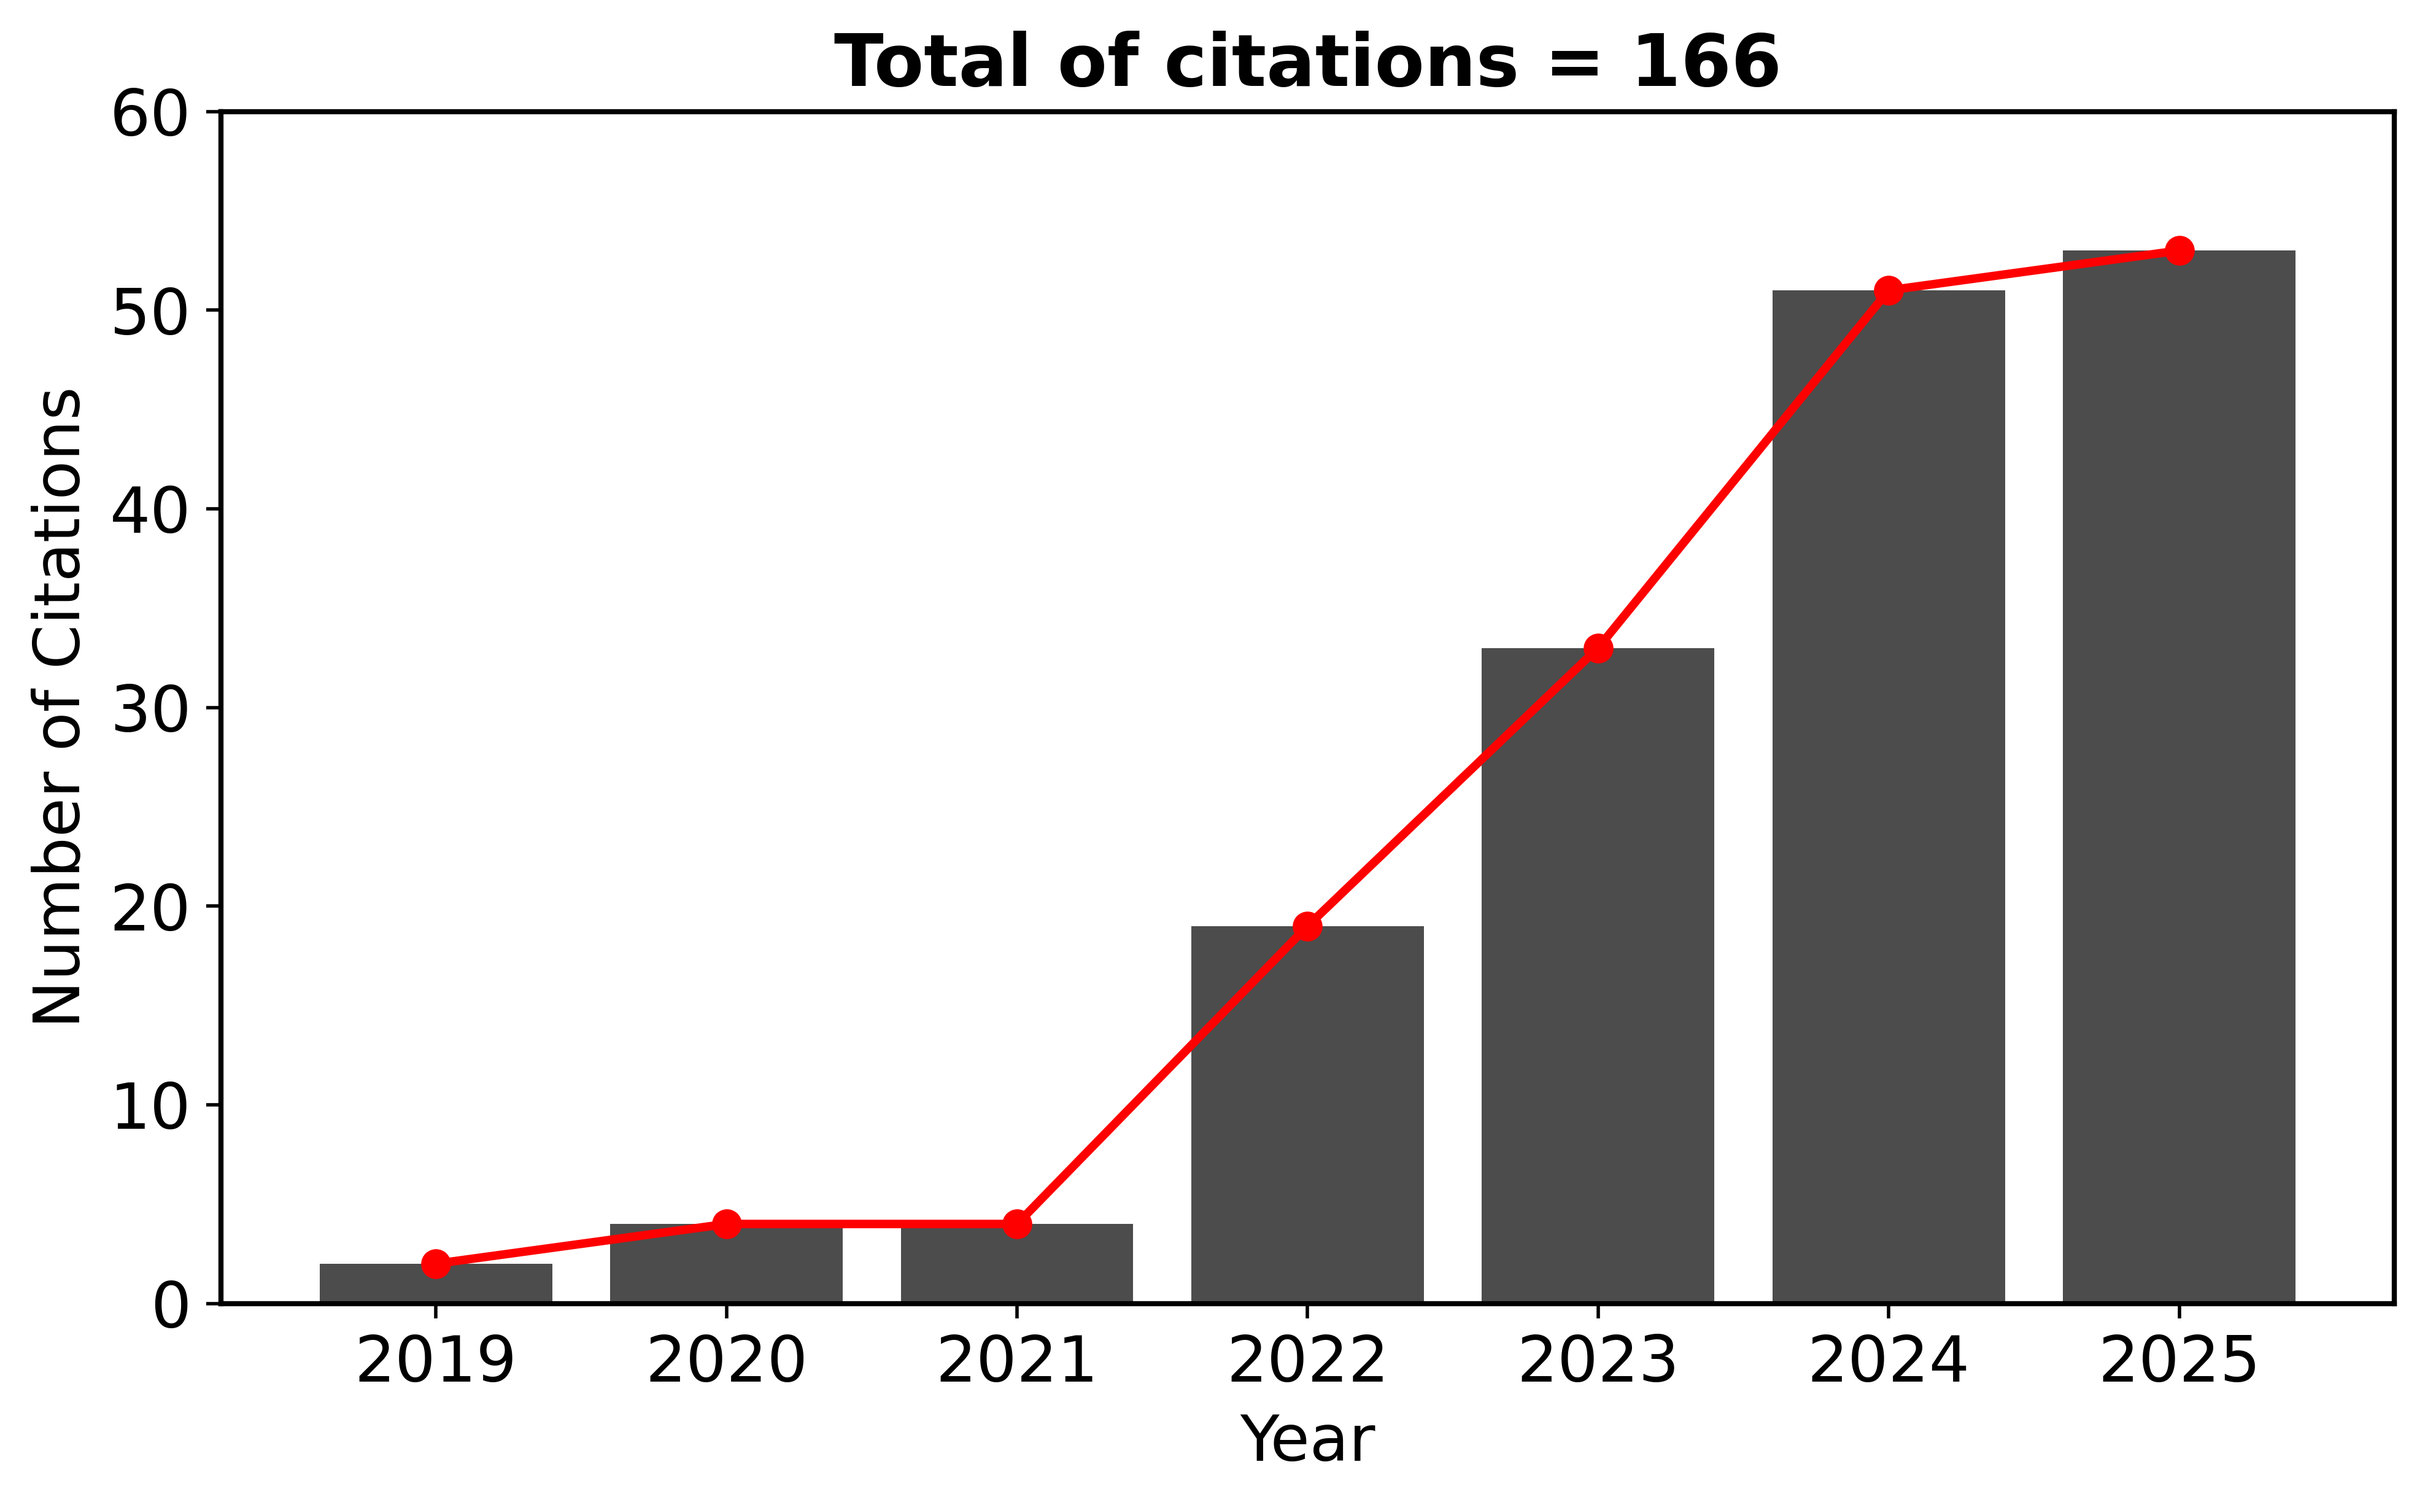
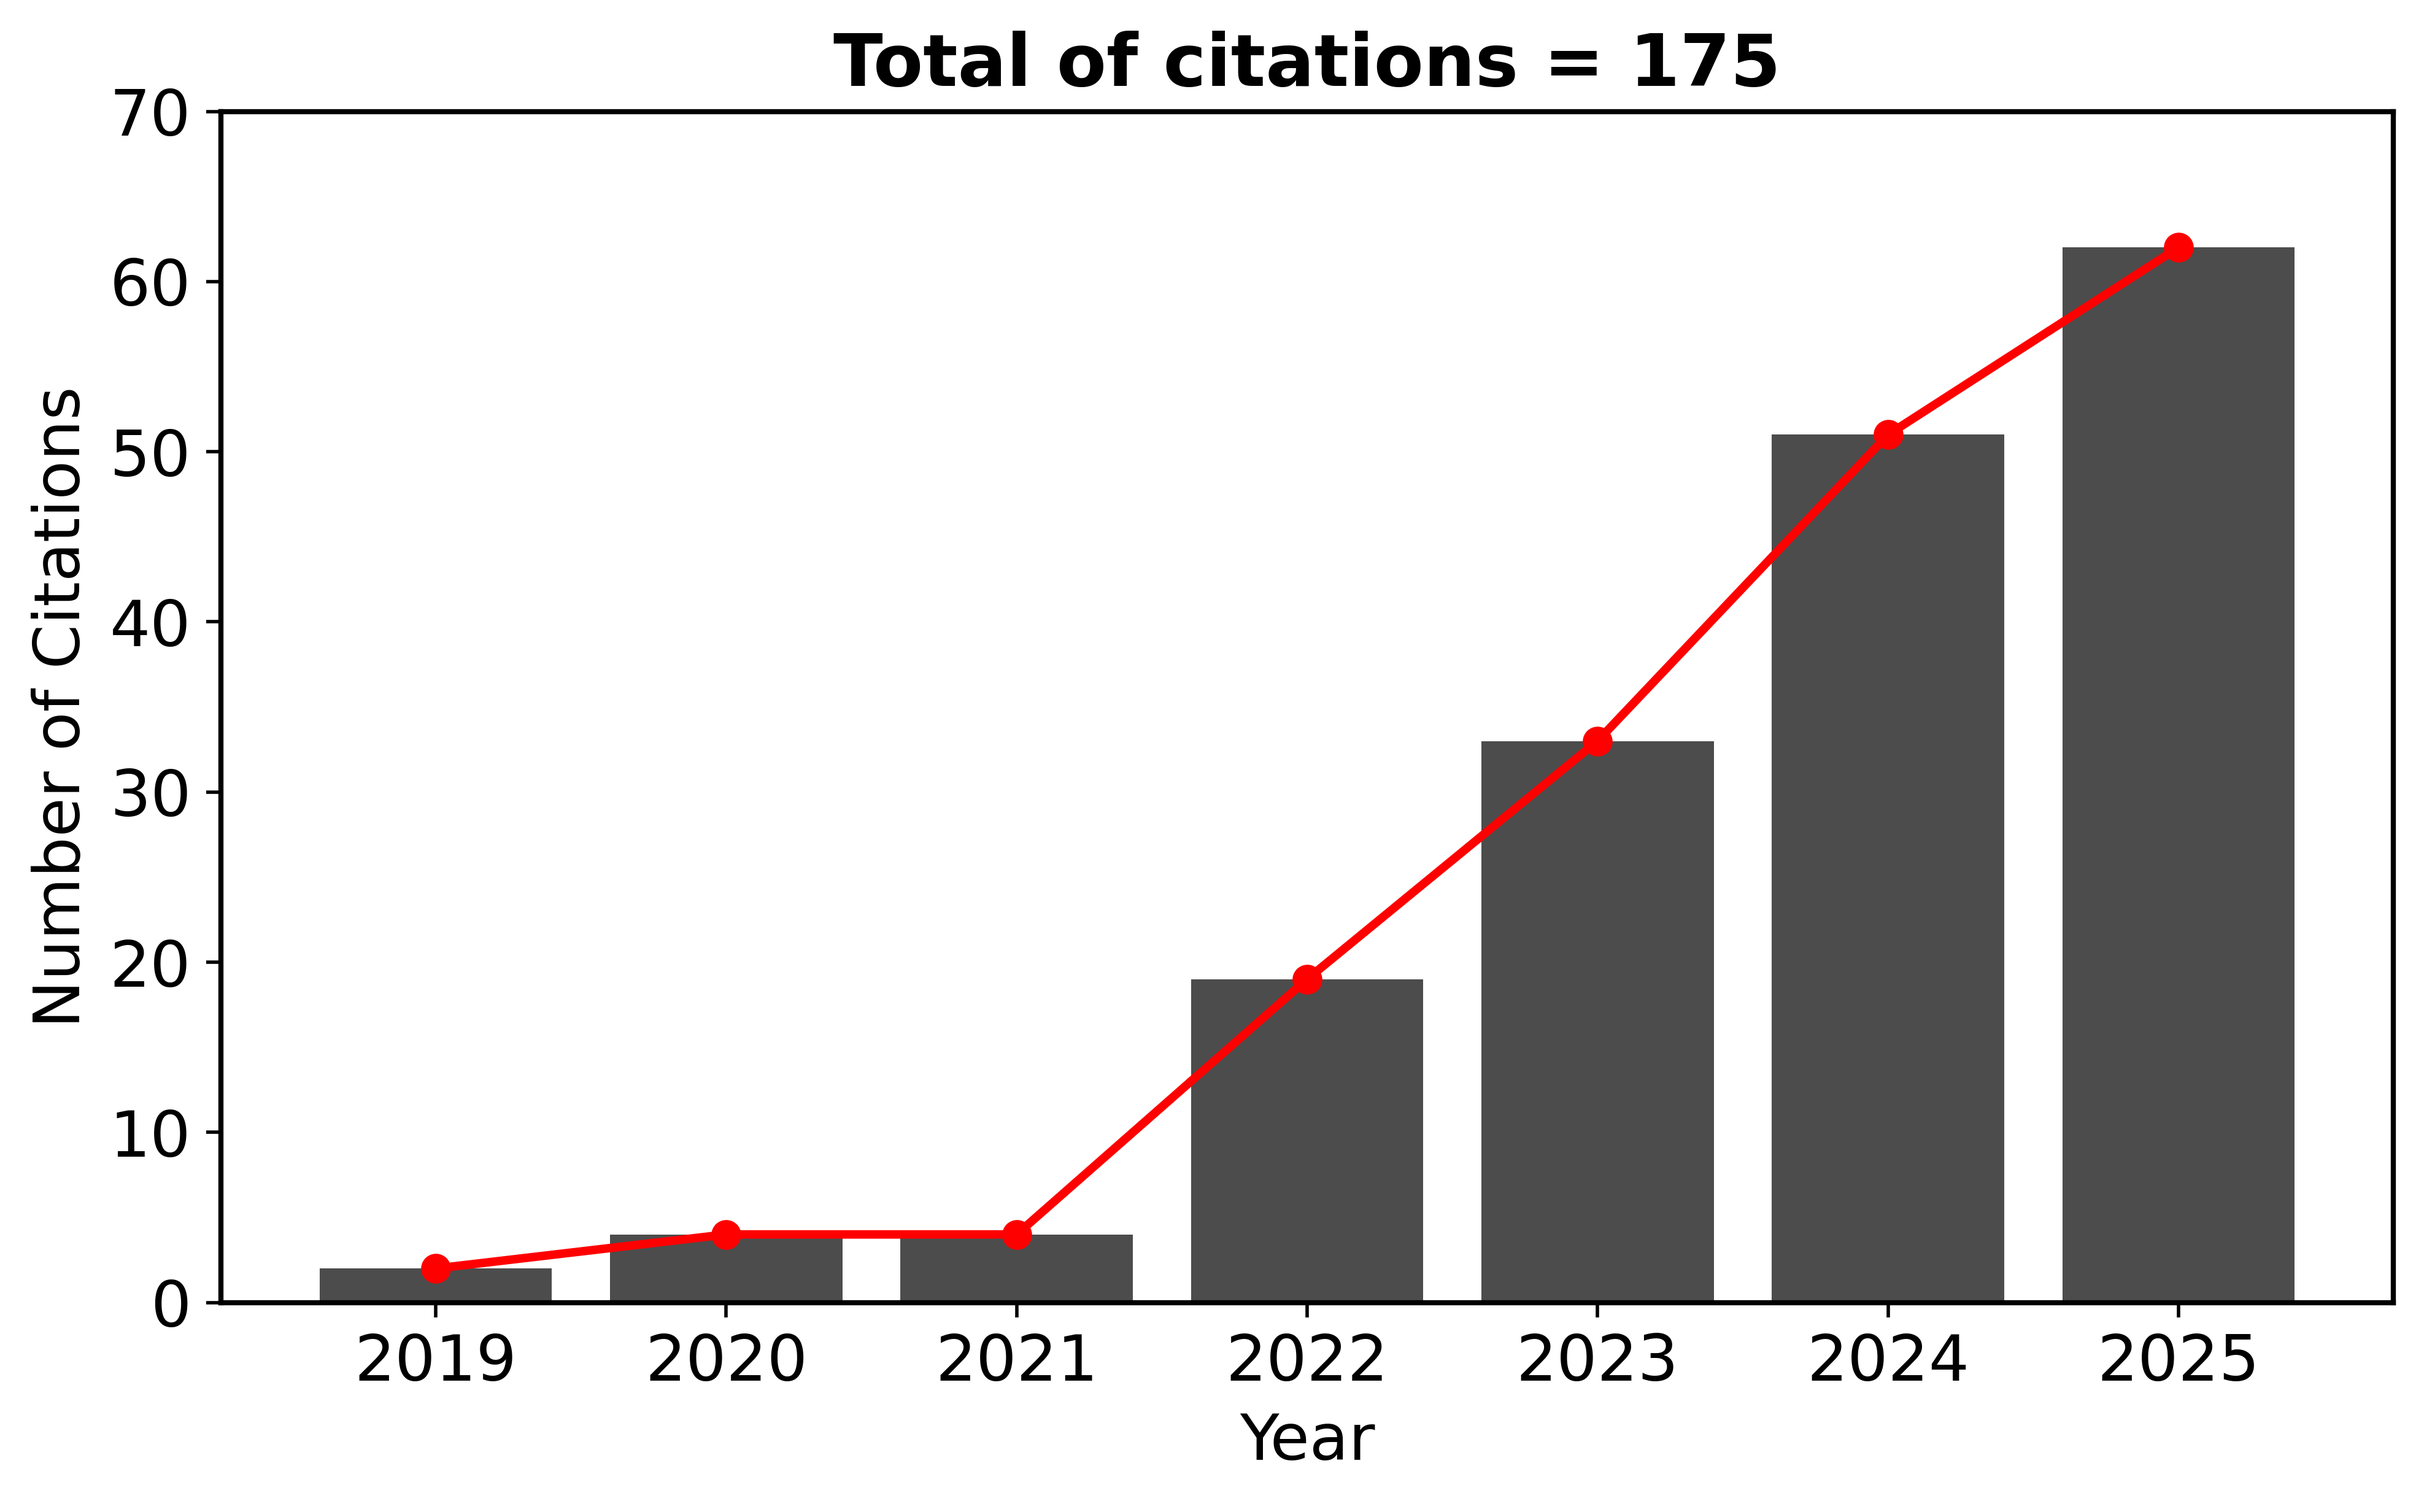
new publication

diff --git a/publications.html b/publications.html
@@ -48,20 +48,21 @@
         <h1>Bibliometric data</h1>
 
         <div class="custom-container">
-            <div class="custom-title">H=8, 19 articles in international peer reviewed journals, 11 articles as first author</div><br>
+            <div class="custom-title">H=8, 20 articles in international peer reviewed journals, 12 articles as first author</div><br>
     <div style="text-align: center;">
       <img src="research/output.png" alt="citation"
            style="width: 45%; height: auto; border-radius: 10px; box-shadow: 0px 4px 8px rgba(0, 0, 0, 0.1);">
     </div>
             <div class="custom-text">
                 Source: 
-                <a href="https://scholar.google.com/citations?user=ZF1mcjoAAAAJ&hl=en&oi=ao" target="_blank">Google Scholar (updated 01/08/2025)</a>
+                <a href="https://scholar.google.com/citations?user=ZF1mcjoAAAAJ&hl=en&oi=ao" target="_blank">Google Scholar (updated 04/10/2025)</a>
             </div>
         </div>
 
         <h1>Published articles</h1>
         <h2>2025</h2>    
         <ul>
+            <li><a href="https://rdcu.be/eJo4H" target="_blank">Madeira et al.: Do self-gravitating hard-sphere disk simulations form Darwin ellipsoids?</a></li>      
             <li><a href="https://arxiv.org/pdf/2507.04954.pdf" target="_blank">Madeira et al.: On the formation of satellites in dense solid-particle disks</a></li>      
             <li><a href="https://arxiv.org/pdf/2412.01361.pdf" target="_blank">Madeira et al.: Hydrodynamical simulations of proto-Moon degassing</a></li>
             <li><a href="https://www.nature.com/articles/s41561-024-01598-9" target="_blank">Hyodo et al.: Pollution resistance of Saturn’s ring particles during micrometeoroid impact</a></li>
